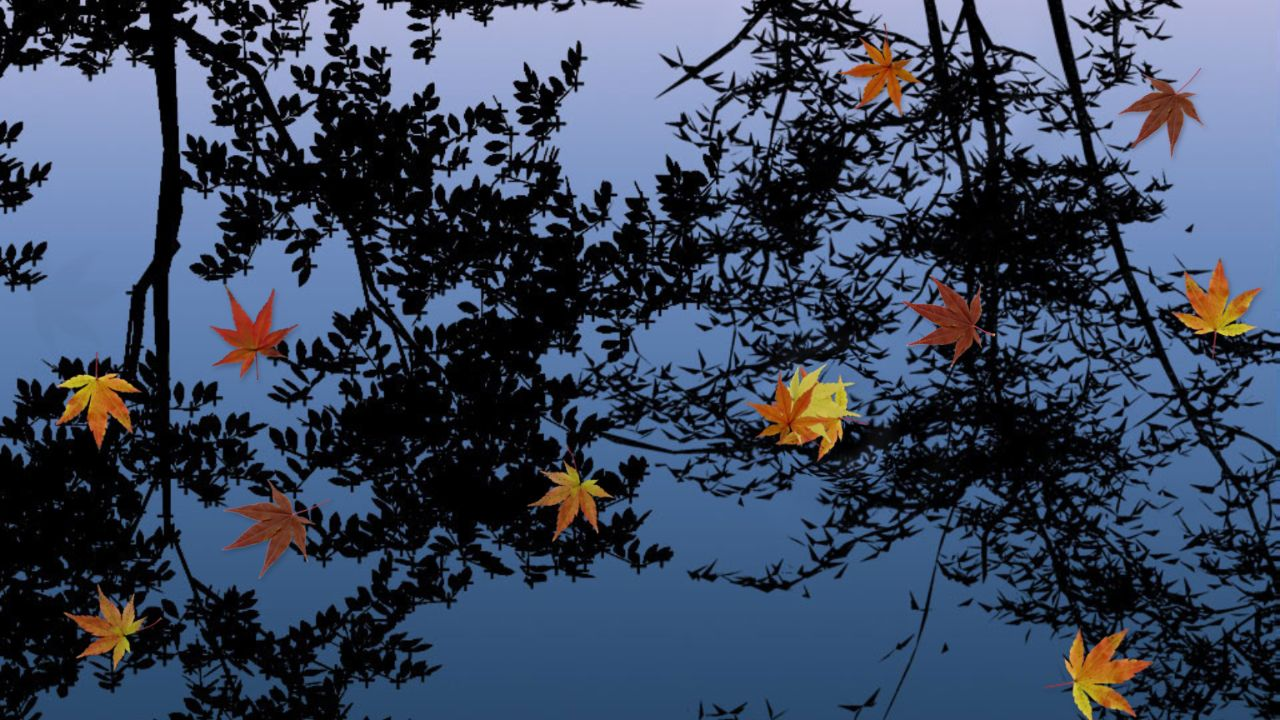
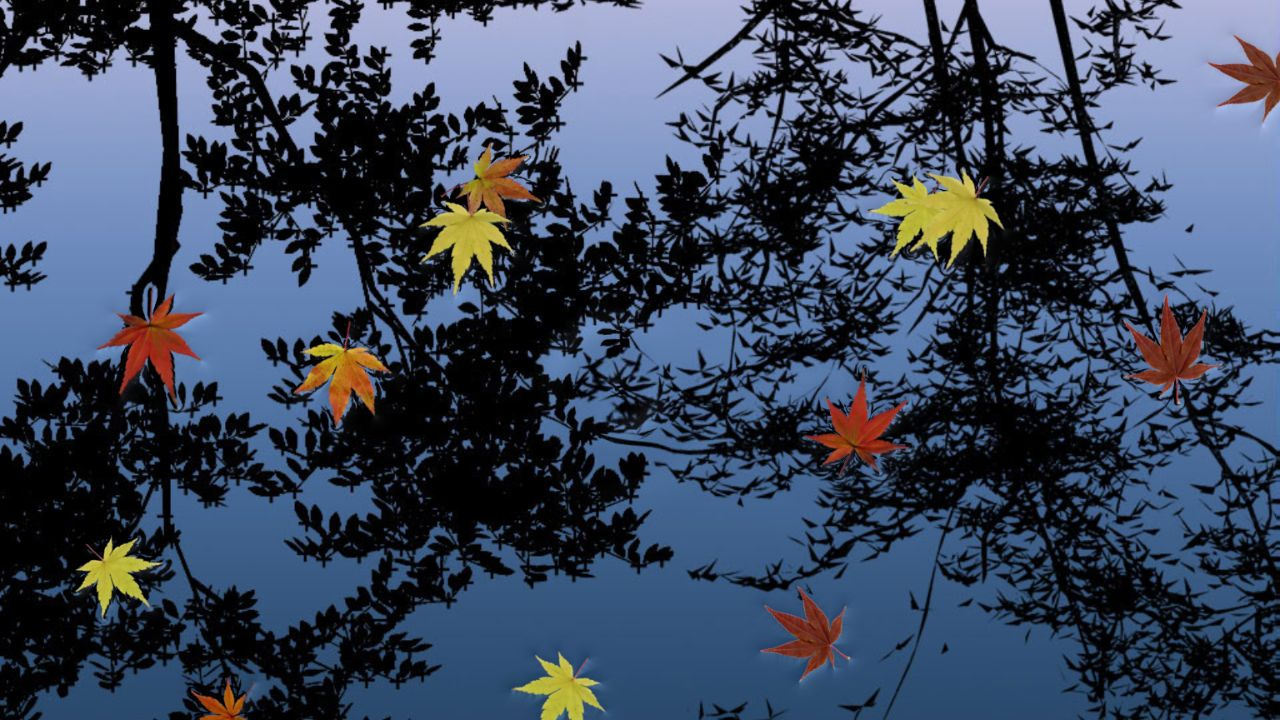
Add contour-driven menisci to Water HD Study 02

diff --git a/wallpaper-hd/renderer.js b/wallpaper-hd/renderer.js
@@ -1,7 +1,7 @@
-/* Water HD study 01. Small mesh + analytic waves + premultiplied sprites. Apache-2.0. */
+/* Water HD study 02. Analytic waves + alpha-derived menisci. Apache-2.0. */
 'use strict';
 const canvas=document.getElementById('water'),panel=document.getElementById('controls');
-const options={fusion:true,leaves:true,paused:false};
+const options={fusion:true,tension:true,leaves:true,paused:false};
 let enginePaused=false,fpsLimit=60,last=0,budget=0,redraw=()=>{};
 panel.hidden=!new URLSearchParams(location.search).has('preview');
 window.wallpaperPropertyListener={
@@ -10,21 +10,23 @@ window.wallpaperPropertyListener={
 };
 document.addEventListener('visibilitychange',()=>{last=0;budget=0;});
 function controls(){
-  for(const key of ['fusion','leaves','pause']){
+  for(const key of ['fusion','tension','leaves','pause']){
     const value=key==='pause'?options.paused:options[key],button=document.getElementById(key);
     button.setAttribute('aria-pressed',String(value));
-    button.textContent=key==='fusion'?'融合效果：'+(value?'开':'关'):key==='leaves'?'叶子：'+(value?'显示':'隐藏'):(value?'继续':'暂停');
+    button.textContent=key==='fusion'?'光照 / 轻摆：'+(value?'开':'关'):key==='tension'?'弯月面：'+(value?'开':'关'):key==='leaves'?'叶子：'+(value?'显示':'隐藏'):(value?'继续':'暂停');
   }
 }
 function toggle(key){options[key]=!options[key];if(key==='paused'){last=0;budget=0;}controls();redraw();}
 document.getElementById('fusion').onclick=()=>toggle('fusion');
+document.getElementById('tension').onclick=()=>toggle('tension');
 document.getElementById('leaves').onclick=()=>toggle('leaves');
 document.getElementById('pause').onclick=()=>toggle('paused');
 window.addEventListener('keydown',e=>{
-  if(e.repeat||e.target.tagName==='BUTTON')return;
+  if(e.repeat||(e.code==='Space'&&e.target.tagName==='BUTTON'))return;
   if(e.code==='Space'){toggle('paused');e.preventDefault();}
   if(e.code==='KeyH')panel.hidden=!panel.hidden;
   if(e.code==='KeyC')toggle('fusion');if(e.code==='KeyL')toggle('leaves');
+  if(e.code==='KeyT')toggle('tension');
 });
 async function start(){
   const gl=canvas.getContext('webgl',{alpha:false,antialias:false,depth:false,stencil:false});
@@ -59,6 +61,45 @@ async function start(){
       color+=fusion*(color*diffuse*.13+vec3(.78,.87,.96)*sheen*.15);
       gl_FragColor=vec4(color,1.);
     }`,['position','surface'],['image','crop','worldSize','light','fusion']);
+  const contact=program(`
+    attribute vec2 position;attribute vec3 surface;
+    uniform vec2 center;uniform mediump vec2 worldSize;uniform mediump vec2 tilt;
+    uniform mediump float angle;uniform mediump float size;
+    varying vec2 uv;varying vec2 screen;varying vec3 wave;
+    void main(){
+      vec2 q=position*size*(191./127.);
+      q=mat2(cos(angle),sin(angle),-sin(angle),cos(angle))*q;
+      q.x+=q.y*tilt.x*.20;q.y*=1.-abs(tilt.y)*.24;
+      screen=(center+q)/worldSize+.5;gl_Position=vec4(screen*2.-1.,0.,1.);
+      uv=vec2(position.x*.5+.5,.5-position.y*.5);wave=surface;
+    }`,`
+    precision mediump float;uniform sampler2D image;uniform sampler2D field;
+    uniform vec2 pixel;uniform vec2 worldSize;uniform vec3 light;
+    uniform float sprite;uniform float angle;uniform float size;uniform vec2 tilt;uniform float fusion;
+    varying vec2 uv;varying vec2 screen;varying vec3 wave;
+    void main(){
+      vec4 f=texture2D(field,vec2((sprite*192.+.5+uv.x*191.)/1536.,(.5+uv.y*191.)/192.));
+      float d=f.r*32.;
+      float mask=1.-smoothstep(20.,29.,d);if(mask<.001)discard;
+      // A shallow depression h=-depth*exp(-distance/width), fading into the pond.
+      // The derivative bends reflections and normals, rather than painting a rim.
+      vec2 grad=(f.gb*2.-1.)*vec2(1.,-1.);
+      grad*=.013*exp(-d/7.5)/(7.5*2.*size/127.);
+      grad=mat2(cos(angle),sin(angle),-sin(angle),cos(angle))*grad;
+      // Inverse transpose of the same shear/squash used for the leaf pose.
+      grad.y=(grad.y-tilt.x*.20*grad.x)/(1.-abs(tilt.y)*.24);
+      // Warp a copy of the rendered water: zero local slope gives the exact base
+      // pixel, even when a strong ripple crosses the patch. No rectangular seams.
+      vec3 c=texture2D(image,clamp(screen-grad*.10/worldSize,pixel,1.-pixel)).rgb;
+      vec3 n=normalize(vec3(-(wave.xy+grad)*.85,1.)),base=normalize(vec3(-wave.xy*.85,1.));
+      vec3 halfLight=normalize(light+vec3(0.,0.,1.));
+      float diffuse=dot(n,light)-dot(base,light);
+      float sheen=pow(max(dot(n,halfLight),0.),42.)-pow(max(dot(base,halfLight),0.),42.);
+      c+=fusion*(c*diffuse*.13+vec3(.78,.87,.96)*sheen*.15);
+      // Contact remains legible against smooth sky, with a directional light/dark pair.
+      c+=vec3(.65,.77,.82)*(dot(n,light)-dot(base,light))*.20;
+      gl_FragColor=vec4(c*mask,mask);
+    }`,['position','surface'],['image','field','pixel','worldSize','light','center','tilt','angle','size','sprite','fusion']);
   const leaf=program(`
     attribute vec2 position;uniform vec2 center;uniform vec2 worldSize;uniform mediump vec2 tilt;
     uniform float angle;uniform float size;uniform float perspective;varying vec2 uv;
@@ -90,7 +131,14 @@ async function start(){
     return tex;
   }
   const [pondImage,leafImage]=await Promise.all([load(WaterAssets.pond),load(WaterAssets.leaves)]);
-  const pond=texture(pondImage),leaves=texture(leafImage);
+  const pond=texture(pondImage),leaves=texture(leafImage),waterSnapshot=texture(pondImage);
+  const maskCanvas=document.createElement('canvas');maskCanvas.width=1024;maskCanvas.height=128;
+  const maskContext=maskCanvas.getContext('2d',{willReadFrequently:true});maskContext.drawImage(leafImage,0,0);
+  const fieldData=WaterContact.atlas(maskContext.getImageData(0,0,1024,128).data);
+  const fieldCanvas=document.createElement('canvas');fieldCanvas.width=fieldData.width;fieldCanvas.height=fieldData.height;
+  fieldCanvas.getContext('2d').putImageData(new ImageData(fieldData.data,fieldData.width,fieldData.height),0,0);
+  const contactField=texture(fieldCanvas),contactSurface=gl.createBuffer(),contactSamples=new Float32Array(12);
+  gl.bindBuffer(gl.ARRAY_BUFFER,contactSurface);gl.bufferData(gl.ARRAY_BUFFER,contactSamples.byteLength,gl.DYNAMIC_DRAW);
   // Prepare one soft alpha atlas at startup; no per-frame blur or new art assets.
   const shadowCanvas=document.createElement('canvas');shadowCanvas.width=1024;shadowCanvas.height=128;
   const ctx=shadowCanvas.getContext('2d');
@@ -105,6 +153,9 @@ async function start(){
   function resize(){
     const ratio=innerWidth/innerHeight,dpr=Math.min(devicePixelRatio||1,2);
     canvas.width=Math.round(innerWidth*dpr);canvas.height=Math.round(innerHeight*dpr);gl.viewport(0,0,canvas.width,canvas.height);
+    gl.bindTexture(gl.TEXTURE_2D,waterSnapshot);
+    // Match the opaque (alpha:false) drawing buffer for WebGL 1 copy compatibility.
+    gl.texImage2D(gl.TEXTURE_2D,0,gl.RGB,canvas.width,canvas.height,0,gl.RGB,gl.UNSIGNED_BYTE,null);
     world.resize(ratio);const {cols,rows}=world,p=[],ix=[];
     for(let y=0;y<=rows;y++)for(let x=0;x<=cols;x++)p.push(x/cols*2-1,y/rows*2-1);
     for(let y=0;y<rows;y++)for(let x=0;x<cols;x++){
@@ -129,7 +180,22 @@ async function start(){
     gl.uniform1f(leaf.size,LEAF_SIZE*l.scale*(shadow?1.025+a*.12:1));
     gl.uniform1f(leaf.perspective,shadow?1:2/(2-a));
     gl.uniform1f(leaf.sprite,l.sprite);gl.uniform1f(leaf.shadow,shadow?1:0);
-    gl.uniform1f(leaf.opacity,opacity*(shadow?(contact?.25:.17):1));
+    gl.uniform1f(leaf.opacity,opacity*(shadow?(contact?(options.tension?.07:.25):.17):1));
+    gl.drawArrays(gl.TRIANGLE_STRIP,0,4);
+  }
+  function drawContact(l){
+    const tiltX=options.fusion?l.slopeX:0,tiltY=options.fusion?l.slopeY:0;
+    const angle=l.angle+tiltX*.22,size=LEAF_SIZE*l.scale,c=Math.cos(angle),s=Math.sin(angle);
+    const y=l.y+(options.fusion?l.bob*.45:0),extent=size*191/127;
+    let i=0;
+    for(const [px,py] of [[-1,-1],[1,-1],[-1,1],[1,1]]){
+      let qx=(px*c-py*s)*extent,qy=(px*s+py*c)*extent;
+      qx+=qy*tiltX*.20;qy*=1-Math.abs(tiltY)*.24;
+      world.sample(l.x+qx,y+qy,contactSamples,i);i+=3;
+    }
+    gl.bindBuffer(gl.ARRAY_BUFFER,contactSurface);gl.bufferSubData(gl.ARRAY_BUFFER,0,contactSamples);
+    gl.uniform2f(contact.center,l.x,y);gl.uniform2f(contact.tilt,tiltX,tiltY);
+    gl.uniform1f(contact.angle,angle);gl.uniform1f(contact.size,size);gl.uniform1f(contact.sprite,l.sprite);
     gl.drawArrays(gl.TRIANGLE_STRIP,0,4);
   }
   function draw(){
@@ -142,6 +208,18 @@ async function start(){
     gl.bindBuffer(gl.ELEMENT_ARRAY_BUFFER,indices);gl.drawElements(gl.TRIANGLES,count,gl.UNSIGNED_SHORT,0);
     gl.disableVertexAttribArray(water.surface);
     if(!options.leaves)return;
+    gl.enable(gl.BLEND);gl.blendFunc(gl.ONE,gl.ONE_MINUS_SRC_ALPHA);
+    if(options.tension){
+      gl.bindTexture(gl.TEXTURE_2D,waterSnapshot);
+      gl.copyTexSubImage2D(gl.TEXTURE_2D,0,0,0,0,0,canvas.width,canvas.height);
+      gl.useProgram(contact.p);attribute(contact.position,quad,2);attribute(contact.surface,contactSurface,3);
+      gl.uniform1i(contact.image,0);gl.uniform1i(contact.field,1);
+      gl.activeTexture(gl.TEXTURE1);gl.bindTexture(gl.TEXTURE_2D,contactField);gl.activeTexture(gl.TEXTURE0);
+      gl.uniform2f(contact.pixel,.5/canvas.width,.5/canvas.height);gl.uniform2f(contact.worldSize,world.width,world.height);
+      gl.uniform3fv(contact.light,LIGHT);gl.uniform1f(contact.fusion,options.fusion?1:0);
+      for(const l of world.leaves)if(l.altitude===0)drawContact(l);
+      gl.disableVertexAttribArray(contact.surface);
+    }
     gl.useProgram(leaf.p);attribute(leaf.position,quad,2);gl.enable(gl.BLEND);
     gl.blendFunc(gl.ONE,gl.ONE_MINUS_SRC_ALPHA);gl.uniform1i(leaf.image,0);
     gl.uniform2f(leaf.worldSize,world.width,world.height);gl.uniform3fv(leaf.light,LIGHT);gl.uniform1f(leaf.fusion,options.fusion?1:0);

diff --git a/tests/hd-render.html b/tests/hd-render.html
@@ -9,23 +9,31 @@ if(!location.search){
   window.addEventListener('message',e=>{if(e.source!==frame.contentWindow||e.origin!==location.origin)return;results.textContent+=e.data+'\n';next();});next();
 }else{
   document.documentElement.style.height=document.body.style.height='100%';
-  document.body.innerHTML='<canvas id="water"></canvas><p id="error" hidden></p><aside id="controls"><button id="fusion"></button><button id="leaves"></button><button id="pause"></button><span id="fps"></span></aside>';
+  document.body.innerHTML='<canvas id="water"></canvas><p id="error" hidden></p><aside id="controls"><button id="fusion"></button><button id="tension"></button><button id="leaves"></button><button id="pause"></button><span id="fps"></span></aside>';
   const canvas=document.getElementById('water'),gl=canvas.getContext('webgl',{alpha:false,antialias:false,depth:false,stencil:false});
-  let frames=0,white=0,reported=false;const originalDraw=gl.drawElements.bind(gl);
+  let frames=0,white=0,reported=false,arrays=0;const originalDraw=gl.drawElements.bind(gl),originalArrays=gl.drawArrays.bind(gl);
   gl.drawElements=function(...args){
-    originalDraw(...args);const w=canvas.width,h=canvas.height,n=6;
+    originalDraw(...args);arrays=0;
+  };
+  gl.drawArrays=function(...args){
+    originalArrays(...args);if(++arrays!==42)return;
+    const w=canvas.width,h=canvas.height,n=6;
     for(const [x,y,width,height]of[[0,0,n,h],[w-n,0,n,h],[0,0,w,n],[0,h-n,w,n]]){
       const pixels=new Uint8Array(width*height*4);gl.readPixels(x,y,width,height,gl.RGBA,gl.UNSIGNED_BYTE,pixels);
       for(let i=0;i<pixels.length;i+=4)if(Math.min(pixels[i],pixels[i+1],pixels[i+2])>245)white++;
     }
     if(++frames===36){reported=true;window.wallpaperPropertyListener.setPaused(true);
-      parent.postMessage(`${white?'FAIL':'PASS'} ${innerWidth}x${innerHeight}: ${white} white border pixels / ${frames} frames; GL error ${gl.getError()}`,location.origin);}
+      const error=gl.getError();parent.postMessage(`${white||error?'FAIL':'PASS'} ${innerWidth}x${innerHeight}: ${white} white border pixels / ${frames} complete frames (including menisci); GL error ${error}`,location.origin);}
   };
   async function load(src){await new Promise((resolve,reject)=>{const s=document.createElement('script');s.src=src+'?check='+Date.now();s.onload=resolve;s.onerror=reject;document.body.append(s);});}
   (async()=>{
-    await load('../wallpaper-hd/assets.js');await load('../wallpaper-hd/world.js');
+    await load('../wallpaper-hd/assets.js');await load('../wallpaper-hd/world.js');await load('../wallpaper-hd/meniscus.js');
     const Original=WaterHD.World;
     WaterHD.World=class extends Original{
+      constructor(aspect){
+        super(aspect,()=>.42);
+        for(let i=0;i<4;i++){this.leaves[i].x=(i%2?1:-1)*(this.width/2-.02);this.leaves[i].y=(i<2?1:-1)*(this.height/2-.02);}
+      }
       update(){}
       mesh(){
         this.time=.25+(frames%18)*.12;this.waves=[];

diff --git a/wallpaper-hd/meniscus.js b/wallpaper-hd/meniscus.js
@@ -1,0 +1,46 @@
+/* Alpha-derived capillary contact field. No fluid solver or replacement artwork. Apache-2.0. */
+(function(root){
+  'use strict';
+  const CELL=128,PAD=32,TILE=CELL+PAD*2,RANGE=32;
+  // Eight-neighbour distance transform, built once. Padding isolates atlas cells.
+  function distance(alpha,width,height){
+    const d=new Float32Array(width*height);
+    for(let i=0;i<d.length;i++)d[i]=alpha[i]>=128?0:1e4;
+    const relax=(x,y,dx,dy,cost)=>{
+      const xx=x+dx,yy=y+dy;
+      if(xx>=0&&xx<width&&yy>=0&&yy<height){const i=y*width+x;d[i]=Math.min(d[i],d[yy*width+xx]+cost);}
+    };
+    for(let y=0;y<height;y++)for(let x=0;x<width;x++){
+      relax(x,y,-1,0,1);relax(x,y,0,-1,1);relax(x,y,-1,-1,Math.SQRT2);relax(x,y,1,-1,Math.SQRT2);
+    }
+    for(let y=height-1;y>=0;y--)for(let x=width-1;x>=0;x--){
+      relax(x,y,1,0,1);relax(x,y,0,1,1);relax(x,y,1,1,Math.SQRT2);relax(x,y,-1,1,Math.SQRT2);
+    }
+    return d;
+  }
+  function atlas(rgba){
+    const width=TILE*8,height=TILE,data=new Uint8ClampedArray(width*height*4);
+    for(let cell=0;cell<8;cell++){
+      const alpha=new Uint8Array(TILE*TILE);
+      for(let y=0;y<CELL;y++)for(let x=0;x<CELL;x++)alpha[(y+PAD)*TILE+x+PAD]=rgba[(y*CELL*8+cell*CELL+x)*4+3];
+      const raw=distance(alpha,TILE,TILE),smooth=new Float32Array(raw.length);
+      // Smooth the low-resolution silhouette's distance, without touching the art.
+      for(let y=0;y<TILE;y++)for(let x=0;x<TILE;x++){
+        let sum=0;
+        for(let dy=-1;dy<=1;dy++)for(let dx=-1;dx<=1;dx++)sum+=raw[Math.max(0,Math.min(TILE-1,y+dy))*TILE+Math.max(0,Math.min(TILE-1,x+dx))];
+        smooth[y*TILE+x]=sum/9;
+      }
+      for(let y=0;y<TILE;y++)for(let x=0;x<TILE;x++){
+        const i=y*TILE+x,o=(y*width+cell*TILE+x)*4;
+        const gx=(smooth[y*TILE+Math.min(TILE-1,x+1)]-smooth[y*TILE+Math.max(0,x-1)])/2;
+        const gy=(smooth[Math.min(TILE-1,y+1)*TILE+x]-smooth[Math.max(0,y-1)*TILE+x])/2;
+        data[o]=Math.min(1,smooth[i]/RANGE)*255;
+        data[o+1]=(Math.max(-1,Math.min(1,gx))*.5+.5)*255;
+        data[o+2]=(Math.max(-1,Math.min(1,gy))*.5+.5)*255;data[o+3]=255;
+      }
+    }
+    return {width,height,data};
+  }
+  const api={CELL,PAD,TILE,RANGE,distance,atlas};
+  if(typeof module!=='undefined'&&module.exports)module.exports=api;else root.WaterContact=api;
+})(typeof globalThis!=='undefined'?globalThis:this);

diff --git a/wallpaper-hd/index.html b/wallpaper-hd/index.html
@@ -1,6 +1,6 @@
 <!doctype html>
 <html lang="zh-CN"><meta charset="utf-8"><meta name="viewport" content="width=device-width,initial-scale=1">
-<title>Water HD · Water & Leaf Study 01</title>
+<title>Water HD · Meniscus Study 02</title>
 <style>
 html,body{margin:0;width:100%;height:100%;overflow:hidden;background:#203c58;font-family:system-ui,sans-serif}
 canvas{display:block;width:100%;height:100%;touch-action:none;outline-offset:-4px}
@@ -10,6 +10,6 @@ canvas{display:block;width:100%;height:100%;touch-action:none;outline-offset:-4p
 </style>
 <canvas id="water" tabindex="0" aria-label="Water HD。点击水面泛起涟漪，按住拖动留下水纹；空格暂停，H 显示对照面板。"></canvas>
 <p id="error" role="alert" hidden></p>
-<aside id="controls" hidden aria-label="原型对照面板"><p><strong>WATER HD · STUDY 01</strong><span id="fps">— FPS</span><br>原版素材占位 · 点击 / 按住拖动 · 空格暂停 · H 隐藏面板</p><button id="fusion" aria-pressed="true">融合效果：开</button><button id="leaves" aria-pressed="true">叶子：显示</button><button id="pause" aria-pressed="false">暂停</button></aside>
-<script src="assets.js"></script><script src="world.js"></script><script src="renderer.js"></script>
+<aside id="controls" hidden aria-label="原型对照面板"><p><strong>WATER HD · STUDY 02</strong><span id="fps">— FPS</span><br>叶缘弯月面 · 原版素材占位 · 点击 / 拖动 · 空格暂停 · T 对照 · H 隐藏</p><button id="tension" aria-pressed="true">弯月面：开</button><button id="fusion" aria-pressed="true">光照 / 轻摆：开</button><button id="leaves" aria-pressed="true">叶子：显示</button><button id="pause" aria-pressed="false">暂停</button></aside>
+<script src="assets.js"></script><script src="world.js"></script><script src="meniscus.js"></script><script src="renderer.js"></script>
 </html>

diff --git a/README.md b/README.md
@@ -70,15 +70,17 @@ The simulation checks compare the analytic wave and triangle normals against ind
 
 For the browser edge regression, serve the repository (for example, `python -m http.server 8000`), then open `http://localhost:8000/tests/edge-render.html`. It checks the rendered pond border at 16:9, portrait, and 32:9 with strong and weak waves. All three cases should report zero white edge pixels.
 
-## Water HD — Study 01
+## Water HD — Study 02
 
-An independent visual prototype is available in [`wallpaper-hd/`](wallpaper-hd/). It retains the original background and leaf artwork while exploring shared water lighting, soft contact shadows, subtle leaf response, and click/drag ripples. The classic 1.0.1 release and Workshop project are unchanged.
+An independent visual prototype is available in [`wallpaper-hd/`](wallpaper-hd/). It retains the original background and leaf artwork while exploring contour-following menisci, shared water lighting, subtle leaf response, and click/drag ripples. The classic 1.0.1 release and Workshop project are unchanged.
 
-Open `wallpaper-hd/preview.html` for the comparison panel, or `wallpaper-hd/index.html` for a clean wallpaper. Press **Space** to pause, **C** to toggle fusion, **L** to hide leaves, and **H** to show the panel. The toggles also work while paused. Rendering targets up to 60 FPS and respects lower Wallpaper Engine limits.
+Open `wallpaper-hd/preview.html` for the comparison panel, or `wallpaper-hd/index.html` for a clean wallpaper. Press **Space** to pause, **T** to toggle menisci, **C** to toggle lighting/tilt, **L** to hide leaves, and **H** to show the panel. The toggles also work while paused. Rendering targets up to 60 FPS and respects lower Wallpaper Engine limits.
 
-Build its separate import package with `pwsh -NoProfile -File scripts/package-hd.ps1`. This creates `dist/Water-HD-Study-01.zip`. Create a **new** Wallpaper Engine project for the study instead of overwriting the published classic item.
+Build its separate import package with `pwsh -NoProfile -File scripts/package-hd.ps1`. This creates `dist/Water-HD-Study-02.zip`. Create a **new** Wallpaper Engine project for the study instead of overwriting the published classic item.
 
-Checks: `node tests/hd-world.cjs` covers wave normals, frame-rate-independent timing, and long-running state. Serve the repository and open `tests/hd-render.html` for rendered border checks. Browser interaction and 16:9 / portrait / 32:9 rendering passed; native wallpaper engine behavior and 4K performance still need target-system testing.
+The meniscus is a visual approximation: a distance field from leaf alpha bends the existing pond reflection and lighting around each floating silhouette. It adds one screen-sized texture and GPU copy when enabled; it does not simulate capillary attraction, wetting, or leaf deformation.
+
+Checks: `node tests/hd-contact.cjs` covers contour gradients and atlas isolation. `node tests/hd-world.cjs` covers wave normals, frame-rate-independent timing, and long-running state. Serve the repository and open `tests/hd-render.html` for rendered border checks. Browser interaction and 16:9 / portrait / 32:9 rendering passed; native wallpaper engine behavior and 4K performance still need target-system testing.
 
 ## Sources and license
 
